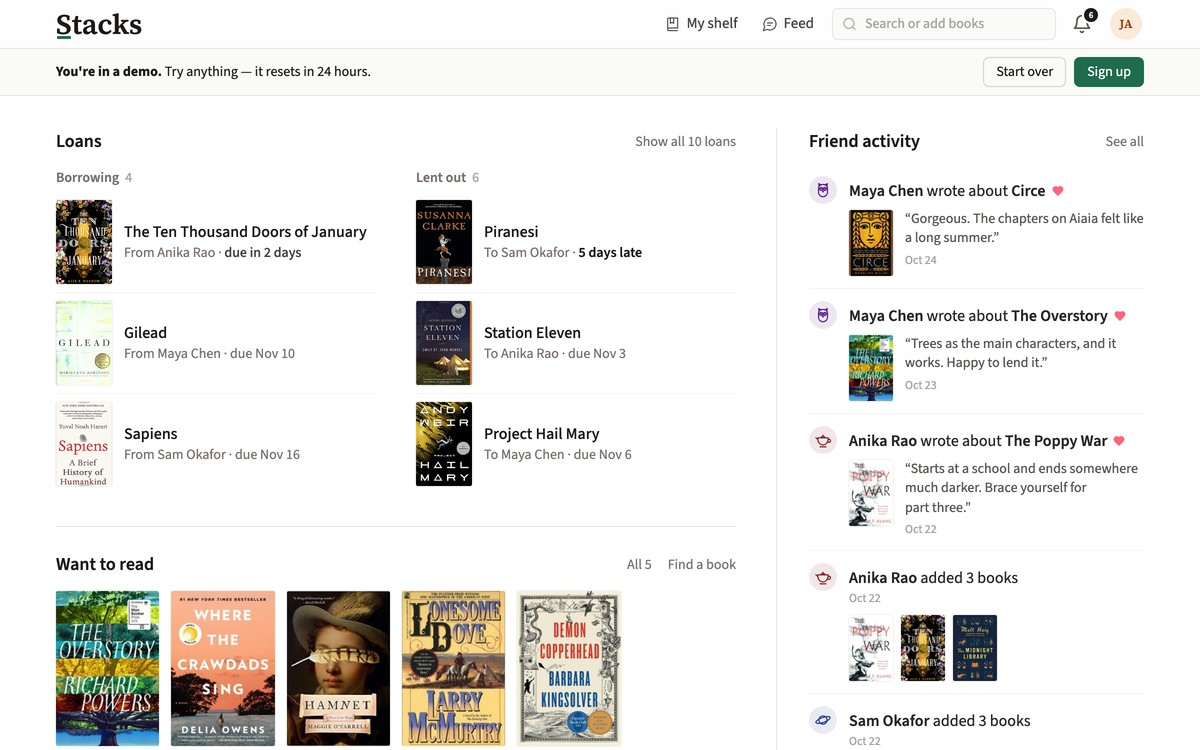
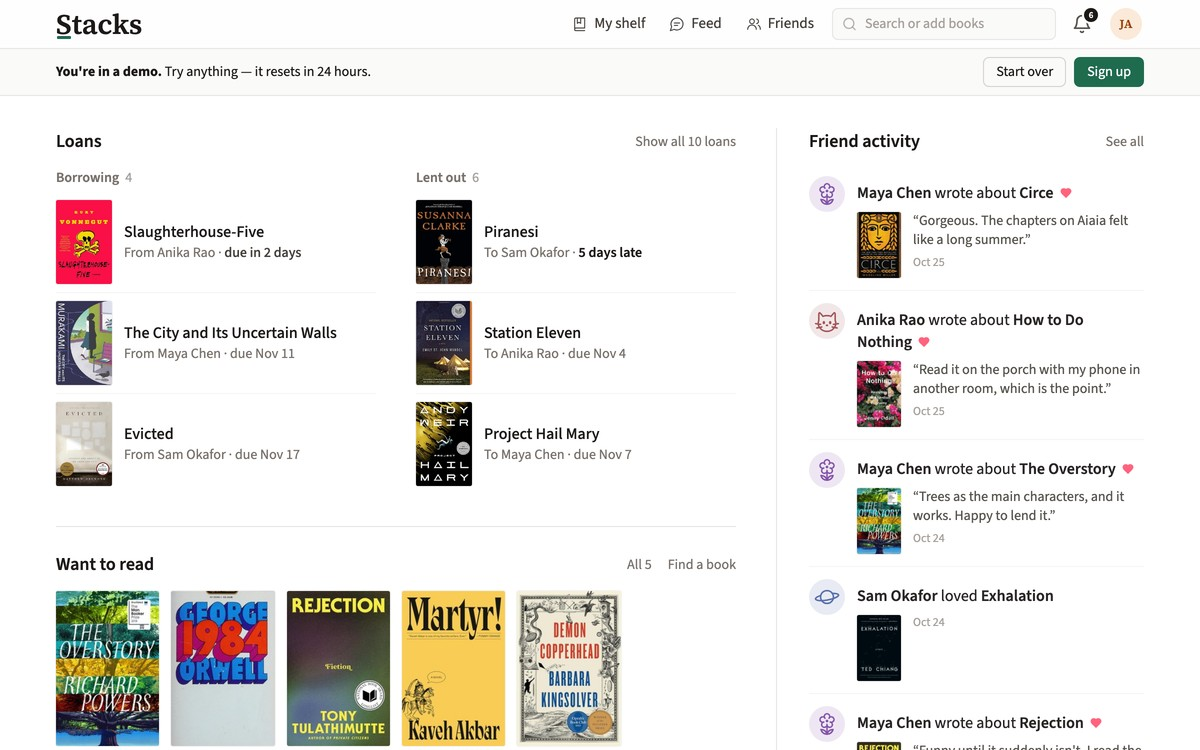
Stacks: fresh demo screenshots for the project mockup
The dashboard and Piranesi on a phone, recaptured in light mode with the demo's new books, the Friends link and the latest friend activity.

diff --git a/content/Index.md b/content/Index.md
@@ -16,7 +16,7 @@ Noteworthy projects I've built on my own time, from 2021 to 2026. Most are writt
 
 <div class="projects">
 <a class="project" href="https://bookstacks.app/">
-<img class="mockup" src="/screenshots/bookshelf.webp" width="1600" height="1000" decoding="async" alt="Stacks' home page in a desktop browser window: loans in two columns, books borrowed from friends and lent to them with their due dates, Piranesi 5 days late, then books to read next, beside a Friend activity column of notes on Circe, The Overstory and The Poppy War, and a phone open to Piranesi by Susanna Clarke, lent to Sam, with Anika and then Lena in line for it">
+<img class="mockup" src="/screenshots/bookshelf.webp" width="1600" height="1000" decoding="async" alt="Stacks' home page in a desktop browser window: loans in two columns, books borrowed from friends and lent to them with their due dates, Piranesi 5 days late, then books to read next, beside a Friend activity column of notes on Circe, How to Do Nothing and The Overstory, and a phone open to Piranesi by Susanna Clarke, lent to Sam, with Anika and then Lena in line for it">
 <h3>Stacks <span class="project-year">2023–2026</span></h3>
 <p>A lending library for your own books: catalog what you own, connect with friends, and lend and borrow.</p>
 <p class="project-tech">Remix · Prisma · SQLite · Tailwind CSS · Fly.io</p>

diff --git a/content/Projects.md b/content/Projects.md
@@ -6,7 +6,7 @@ Noteworthy projects I've built on my own time, from 2021 to 2026. Most are writt
 
 <div class="projects">
 <a class="project" href="https://bookstacks.app/">
-<img class="mockup" src="/screenshots/bookshelf.webp" width="1600" height="1000" decoding="async" alt="Stacks' home page in a desktop browser window: loans in two columns, books borrowed from friends and lent to them with their due dates, Piranesi 5 days late, then books to read next, beside a Friend activity column of notes on Circe, The Overstory and The Poppy War, and a phone open to Piranesi by Susanna Clarke, lent to Sam, with Anika and then Lena in line for it">
+<img class="mockup" src="/screenshots/bookshelf.webp" width="1600" height="1000" decoding="async" alt="Stacks' home page in a desktop browser window: loans in two columns, books borrowed from friends and lent to them with their due dates, Piranesi 5 days late, then books to read next, beside a Friend activity column of notes on Circe, How to Do Nothing and The Overstory, and a phone open to Piranesi by Susanna Clarke, lent to Sam, with Anika and then Lena in line for it">
 <h2>Stacks <span class="project-year">2023–2026</span></h2>
 <p>A lending library for your own books: catalog what you own, connect with friends, and lend and borrow.</p>
 <p class="project-tech">Remix · Prisma · SQLite · Tailwind CSS · Fly.io</p>
